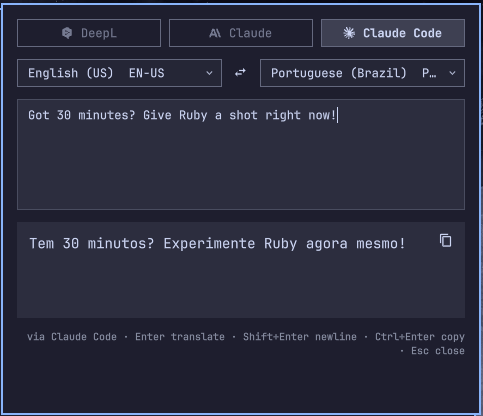
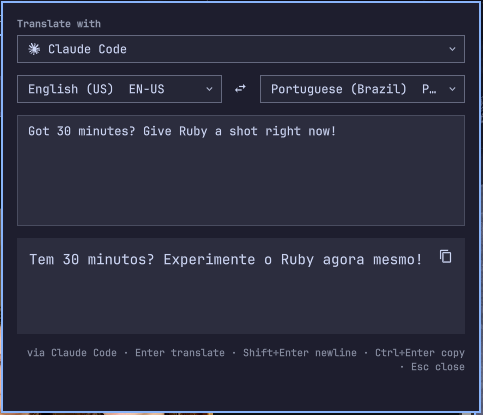
docs: retake the README screenshot with the provider dropdown

diff --git a/README.md b/README.md
@@ -7,7 +7,7 @@ or your [Claude Code](https://claude.com/claude-code) login) or Google
 Click the  icon, type, press Enter.
 
 <p align="center">
-  <img src=".github/screenshot.png" width="483" alt="The translator popup: provider buttons (DeepL, Claude, Claude Code), English → Portuguese (Brazil), the typed text and its translation">
+  <img src=".github/screenshot.png" width="483" alt="The translator popup: the Translate with dropdown set to Claude Code, English → Portuguese (Brazil), the typed text and its translation">
 </p>
 
 New to QML or curious how the pieces fit? Read **[docs/HOW_IT_WORKS.md](docs/HOW_IT_WORKS.md)**.
